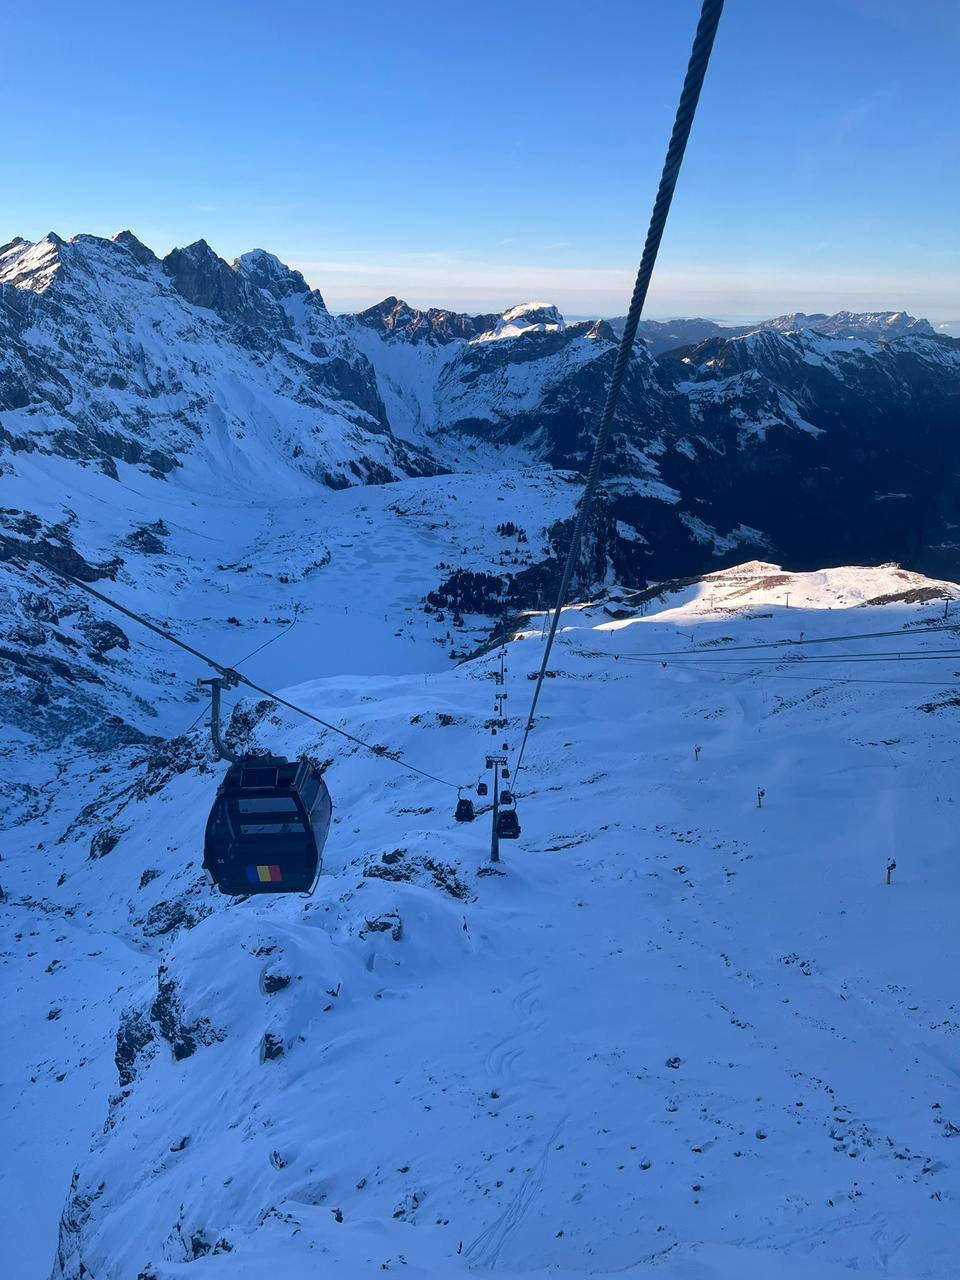
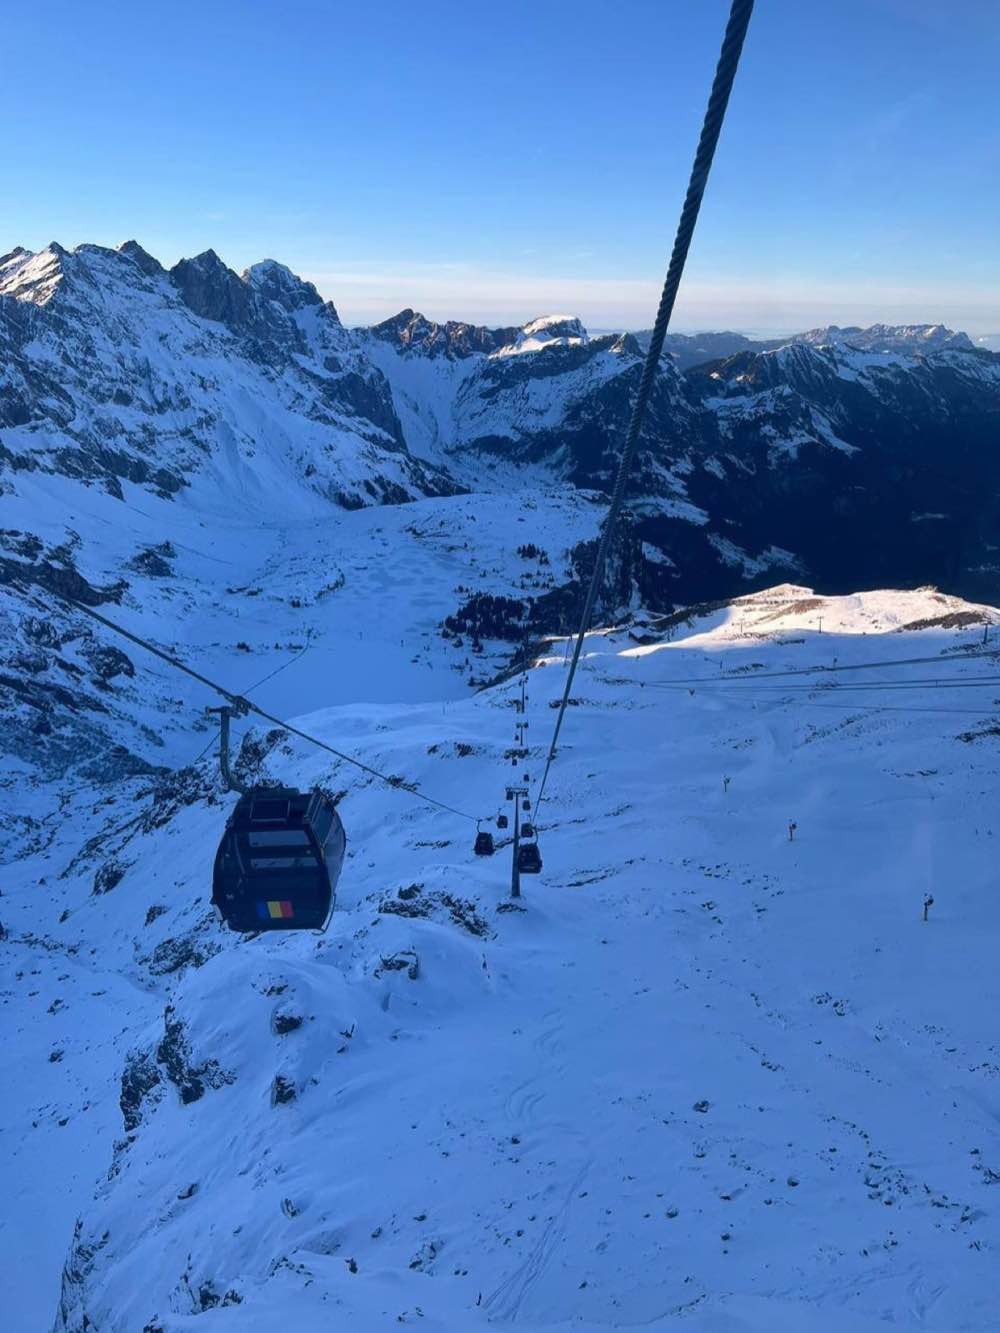
fix: image paths for base URL + compress images + optimize

diff --git a/src/styles/global.css b/src/styles/global.css
@@ -35,7 +35,7 @@ html {
 
 body {
   font-family: 'Cormorant Garamond', 'Georgia', serif;
-  background: linear-gradient(180deg, #0a1e3d 0%, #0d2847 50%, #0a1e3d 100%);
+  background: linear-gradient(180deg, #1a3a5c 0%, #0d2847 50%, #1a3a5c 100%);
   color: var(--text-dark);
   min-height: 100vh;
 }
